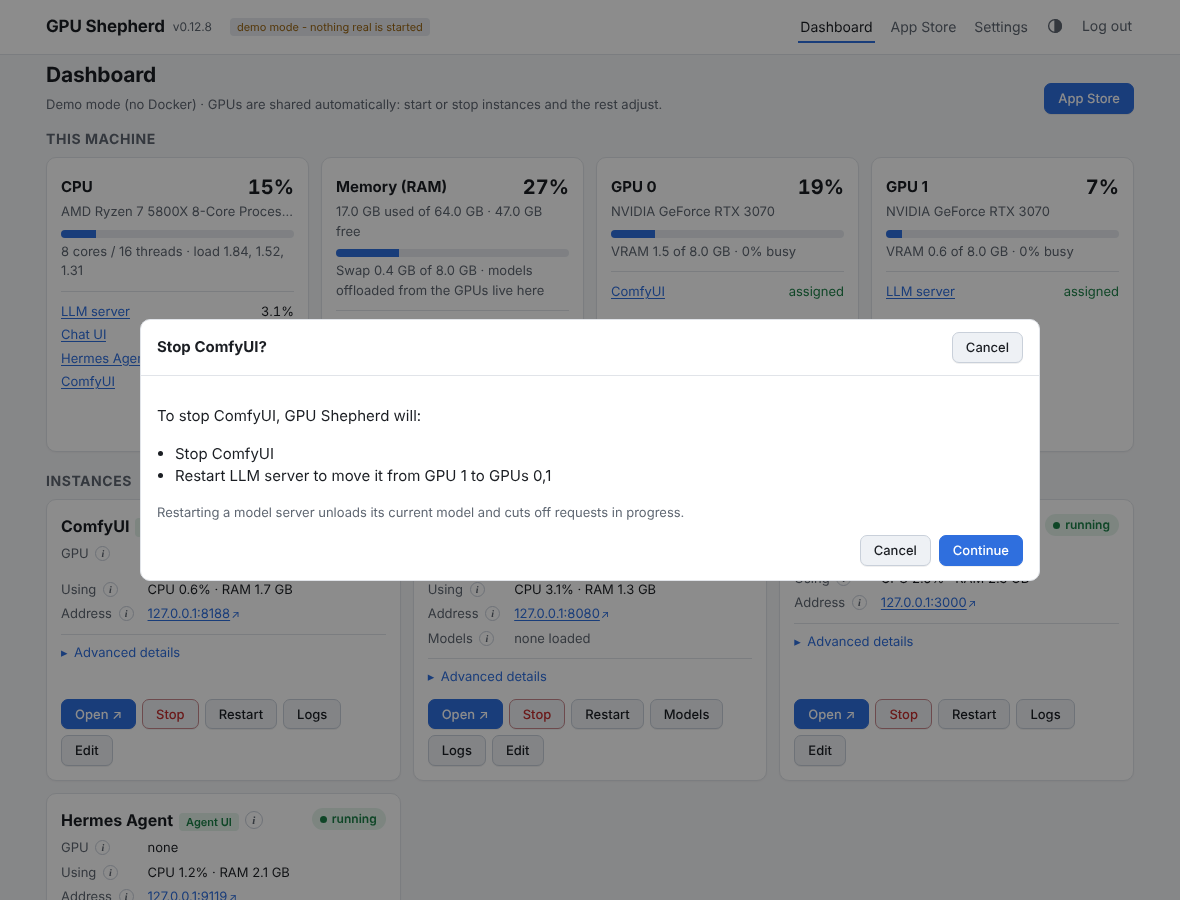
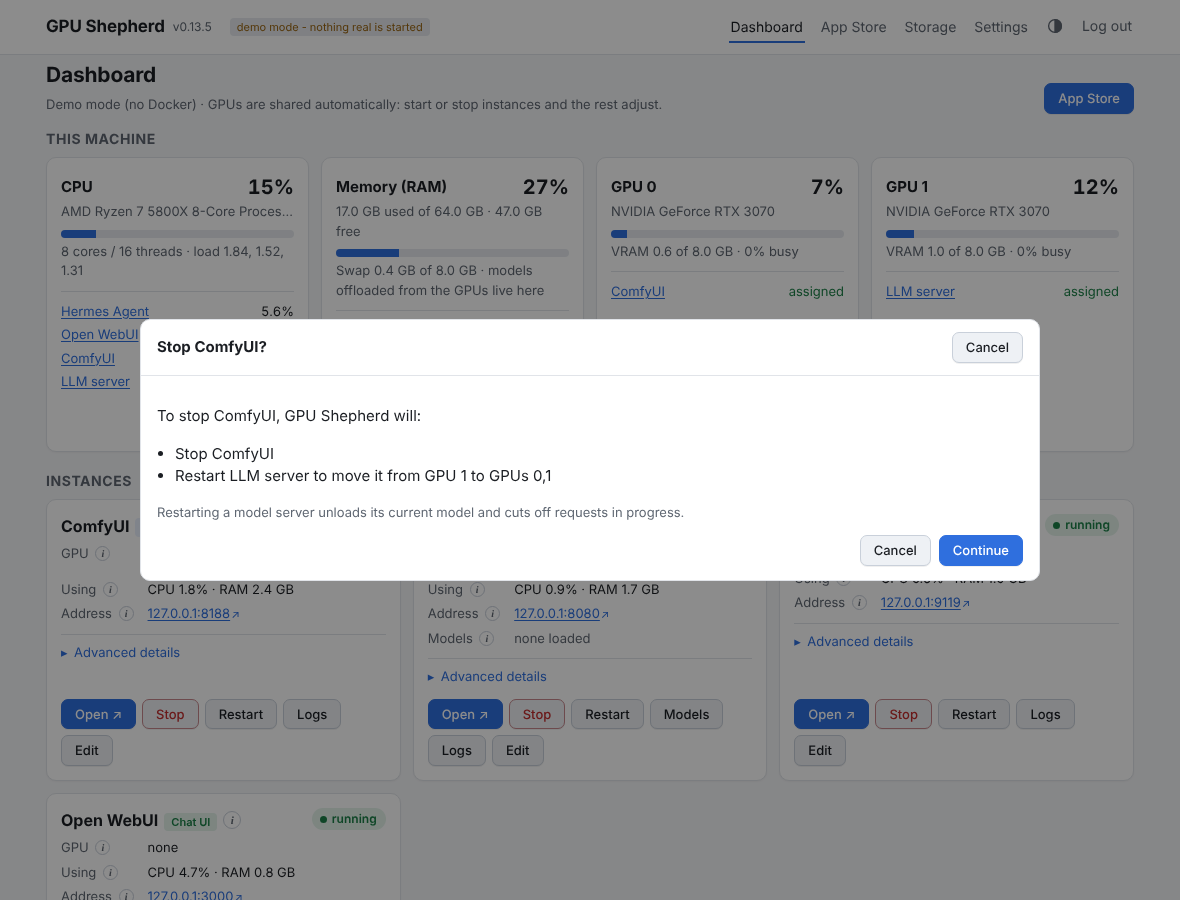
Docs: cover storage, trash and app updates; retake screenshots
README, advanced.md, cli.md, api.md and architecture.md now describe the Storage page, the trash
(delete no longer keeps folders in place), app updates and the trash_days setting. Every screenshot
was retaken in the light theme at the current version; the dark one stays for the theme section.

Claude-Session: https://claude.ai/code/session_016Q83r7AEjvZ4jF59eURJcD

diff --git a/docs/cli.md b/docs/cli.md
@@ -148,7 +148,7 @@ theme is the one exception: it is a choice saved in each browser.
 | `show ID` | The instance's settings as YAML, the same as `instances/<id>.yaml`. | Edit |
 | `set ID KEY=VALUE...` | Change settings, by the YAML keys in [Instance options](advanced.md#instances): `name=`, `image=`, `autostart=true`, `gpu.mode=elastic`, `gpu.gpus=0,1`, `gpu.priority=70`, `drain.timeout=300`, `open_port=`, ... `ports`, `volumes` and `env` take the editor's lines, separated by `;`: `ports=8188:8188;9000:9000/udp`, `volumes=/srv/x:/data:ro`, `env=A=1;B=2`. `command` takes a command line. An empty value clears an optional field. | Edit, Save |
 | `apply FILE` | Create or replace an instance from a YAML or JSON file, such as `show`'s output (`-` reads standard input). `--id` gives the ID if the file has none. | Edit, *Any Docker image* |
-| `delete ID` | Delete the instance and its container; folders on disk are kept. Asks first; `-y` doesn't. | Delete |
+| `delete ID` | Delete the instance: its settings, model list and app data folder go to the [trash](advanced.md#storage-and-trash) (model files stay). A running one is stopped first and waits for running work. Asks first; `-y` doesn't. | Delete |
 | `apps` | The App Store's apps and what is installed from each. | App Store |
 | `apps show KEY` | An app, what it also installs and what is left to do afterwards, the answers its install form starts with, and the choices for each. | Install |
 | `apps install KEY [KEY=VALUE...]` | Install an app. Only give what differs from `apps show`: `apps install comfyui gpu=pin:1 port=8189`, `apps install llm-server chat_file=qwen3.5-9b/Qwen3.5-9B-UD-Q4_K_XL.gguf` (a suggested model, downloaded for you), `apps install open-webui server=new chat_file=...` (installs an LLM server with it), `apps install librechat` (and its database). | Install |
@@ -165,10 +165,13 @@ theme is the one exception: it is a choice saved in each browser.
 | `models auto-set SERVER ALIAS DEFAULT [N=MODEL...]` | Add or replace an auto name: `models auto-set llm coder small-coder 2=big-coder`. | Models › Auto names |
 | `models auto-delete SERVER ALIAS` | Remove an auto name. | Models › Auto names |
 | `models settings SERVER [KEY=VALUE...]` | Show or change `threads`, `health_timeout` and `llama_server`. `--new-api-key` gives the server a new API key. | Models › Server settings |
+| `app-updates` | Settings added to installed apps since you installed them. `app-updates apply INSTANCE KEY` (or `--all`) applies one, `app-updates skip INSTANCE KEY` stops it being offered. | App updates banner |
+| `storage` | Free space per disk, folder sizes, app images and what looks unused. `storage remove-images` and `remove-orphans` clean up; `storage trash-files PATH...` and `trash-folder NAME` move unused model files or an app data folder to the trash. | Storage |
+| `trash`, `trash restore ID`, `trash delete ID`, `trash empty` | What is in the trash, put one back, delete one for good, empty it (`-y` doesn't ask). | Storage › Trash |
 | `jobs` | Recent changes and how they ended. | Dashboard › last change |
 | `jobs show N` | Follow a change's log. | Log |
 | `jobs skip N`, `jobs cancel N` | While a change waits for running work: stop without waiting longer, or call it off. | Stop now / Cancel change |
-| `settings`, `settings set KEY=VALUE...` | Show settings, or set `bind_address` and `network`. | Settings › Containers |
+| `settings`, `settings set KEY=VALUE...` | Show settings, or set `bind_address`, `network` and `trash_days`. | Settings › Containers, Storage › Trash |
 | `password` | Change the admin password (asks for the current and the new one). | Settings › Password |
 | `token` | Print the API token. `--new` makes a new one; the old one stops working. Reads the data folder, so it works without the app running. | Settings › API and command line |
 | `update` | Running version, and whether an update is waiting. | Version number |

diff --git a/docs/api.md b/docs/api.md
@@ -52,7 +52,7 @@ always need the token, so another web page can't make your browser change anythi
 | `GET /api/v1/instances` | Every instance: its settings plus `state` (`running`, `status`, `status_text`, `gpus`, `container`, `restart_needed`). |
 | `GET /api/v1/instances/{id}` | One instance, the same way. |
 | `PUT /api/v1/instances/{id}` | Create (`201`) or replace (`200`) an instance. The body is the whole instance, as `GET` returns it (`state` is ignored) or as in `instances/<id>.yaml`; `id` defaults to the one in the address and `name` to the ID. To change one field, `GET`, change it and `PUT` it back. |
-| `DELETE /api/v1/instances/{id}` | Delete it and its container; its folders on disk are kept. |
+| `DELETE /api/v1/instances/{id}` | Delete it: stop it (a running one waits for its work to finish, in the background) and move its settings, model list and app data folder, plus a helper only it uses (LibreChat's database), to the [trash](#storage-and-trash). `409` while another instance needs it. Model files are never touched. |
 | `POST /api/v1/instances/{id}/start` | Start it. Also `/stop` and `/restart`. Body (optional): `{"confirm": true}`. |
 | `GET /api/v1/instances/{id}/logs` | `{"logs": "..."}`, the container's log. |
 
@@ -113,12 +113,36 @@ For instances of kind `llama-swap`.
 
 | Request | What it does |
 |---|---|
-| `GET /api/v1/settings` | `admin_user`, `bind_address`, `network`, `container_prefix`, `data_dir`, `host_data_dir`. |
-| `PATCH /api/v1/settings` | Change `bind_address` and/or `network` (the others are YAML only). |
+| `GET /api/v1/settings` | `admin_user`, `bind_address`, `network`, `container_prefix`, `data_dir`, `host_data_dir`, `trash_days`. |
+| `PATCH /api/v1/settings` | Change `bind_address`, `network` and/or `trash_days` (the others are YAML only). |
 | `POST /api/v1/settings/password` | `{"current": "...", "new": "..."}` (10+ characters). |
 | `POST /api/v1/token` | Make a new API token and answer it as `token`; the one used for this request stops working. |
 
 The theme is not here: it is saved per browser.
+
+## Storage and trash
+
+Deleting an instance or cleaning up a file moves it to the trash first, so it can be put back.
+
+| Request | What it does |
+|---|---|
+| `GET /api/v1/storage` | Free space per `disks`, the `folders` and their sizes, app `images` and what uses them, `files` worth a look (`why`: `unused`, `partial` or `duplicate`), `leftover_folders`, `orphans` (containers without an instance) and the `trash`. |
+| `POST /api/v1/storage/images` | Remove the app images no instance uses (they download again when needed). |
+| `POST /api/v1/storage/orphans` | Remove containers left without an instance. Their data folders are not touched. |
+| `POST /api/v1/storage/files` | `{"paths": [...]}`: move model files from `files` to the trash. |
+| `POST /api/v1/storage/leftovers` | `{"name": "..."}`: move an unused app data folder from `leftover_folders` to the trash. |
+| `GET /api/v1/trash` | What is in it: `id`, `title`, `size`, `age_days`. |
+| `POST /api/v1/trash/{id}/restore` | Put it back (`409` if something is in its place). |
+| `DELETE /api/v1/trash/{id}` | Delete one entry for good. `DELETE /api/v1/trash` empties the trash. |
+
+## App updates
+
+Settings that an app's template gained after it was installed (the dashboard's *App updates* banner).
+
+| Request | What it does |
+|---|---|
+| `GET /api/v1/app-updates` | A list of `instance`, `key`, `title`, `changes` and `afterwards` (what is left for you to do). |
+| `POST /api/v1/app-updates/{id}/{key}/apply` | Apply it. `/skip` stops it being offered again. |
 
 ## Updates
 

diff --git a/docs/advanced.md b/docs/advanced.md
@@ -15,6 +15,7 @@ gpu.mode=elastic`, `gpu-shepherd models set <server> <model> ctx_size=65536` and
 - [Model servers](#model-servers): models, model behaviour, GPU and system RAM, suggested models,
   auto names, server settings
 - [Settings](#settings)
+- [Storage and trash](#storage-and-trash)
 - [What App Store apps fill in](#what-app-store-apps-fill-in)
 
 ## Instances
@@ -275,8 +276,26 @@ Saved in `settings.yaml` (mode 600, it holds the password hash).
 | Docker network | `network` | The network every instance joins. |
 | Theme | - | System (follows your device), Light or Dark. Saved per browser in a `theme` cookie, not in `settings.yaml`. The theme button at the top of every page cycles through them. |
 | API token | - | For the [JSON API](api.md) and the `gpu-shepherd` commands. Kept in the `api-token` file in the data folder (mode 600), not in `settings.yaml`. *Make a new token* replaces it. |
+| Empty the trash after | `trash_days` | Days before the [trash](#storage-and-trash) empties itself, 30 by default; `0` keeps things until you empty it. |
 | - | `admin_user` | The login name, `admin` by default. YAML only. |
 | - | `container_prefix` | Prefix for container names, `shepherd-` by default. YAML only; change it only with every instance stopped. |
+
+## Storage and trash
+
+The **Storage** page shows free space on each disk it uses (with a warning when one is low), the size
+of each folder, the app images and which instance uses them, and what is worth a look: model files in
+no model list, unfinished downloads, the same file twice, app data folders with no instance, and
+containers with no instance. Folders that aren't mounted into GPU Shepherd's container at the same
+path are listed without sizes.
+
+Nothing here is deleted outright. Deleting an instance, and moving files or folders from the Storage
+page, put them in the **trash**, where *Restore* puts them back and *Delete for good* frees the space.
+Deleting an instance moves its settings, model list and app data folder (and a helper only it uses,
+such as LibreChat's database), never its model files. Model files you remove from the Storage page wait
+in `.shepherd-trash` in their own models folder. Entries empty themselves after `trash_days`.
+Unused app images and containers without an instance are removed at once; images download again when
+an app needs them. The same things are in the `gpu-shepherd` [commands](cli.md#commands) and the
+[API](api.md#storage-and-trash).
 
 ## What App Store apps fill in
 

diff --git a/README.md b/README.md
@@ -71,6 +71,9 @@ each instance says what it needs, and starting or stopping anything re-plans who
 - **Light or dark**: follows your device, or pick Light or Dark with the theme button at the top.
 
   ![Dark theme](docs/screenshots/dashboard-dark.png)
+- **Storage and trash**: free space per disk, folder sizes, unused app images and model files, and a
+  trash that deleting an instance or a file goes to first, so you can put it back.
+- **App updates**: when an app's setup gains something new, a banner shows what changes; apply or skip it.
 - **Plain files**: everything is saved as readable YAML - easy to back up, diff, or keep in git.
 - **Updates in place**: `update.sh` or a dashboard button, with automatic rollback if an update fails.
 - **Small**: one Python process, server-rendered pages with htmx, no JavaScript build step.
@@ -278,6 +281,8 @@ in the suggested models.
   catalogs/<id>.yaml     model list + API key per model server        (mode 600)
   generated/<id>/        files rendered for containers - do not edit
   update/                update status, log and settings backups
+  appdata/<app>/         each app's own data
+  trash/                 deleted instances and files, until restored or emptied
 ```
 
 You can edit the YAML by hand; GPU Shepherd re-reads it on every page load and shows a warning

diff --git a/docs/architecture.md b/docs/architecture.md
@@ -18,6 +18,8 @@ gpu-shepherd COMMAND ─ cli.py ─ JSON ─> api.py                         │
                       ├─ downloads.py  fetches suggested models in a helper container (curl)
                       ├─ jobs.py       one change at a time, in a background thread, with a log
                       ├─ drain.py      wait for running work (chats, queued images) before a stop
+                      ├─ storage.py / trash.py   what takes disk space; the trash deletes go to first
+                      ├─ app_updates.py  settings installed apps are missing from their current template
                       ├─ auth.py       scrypt password hashing, first-run password, API token
                       ├─ updates.py    update status, steps and requests, shared with update.sh on the host
                       └─ changelog.py  reads CHANGELOG.md, compares versions
